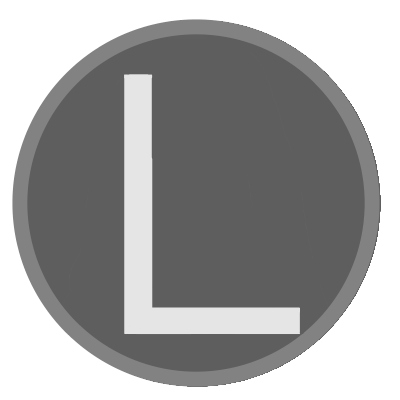
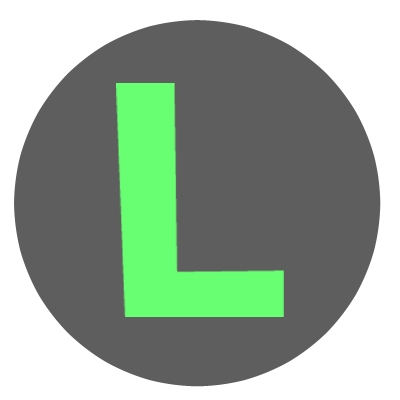
スティック画像差し替え

Changed region(s): [[0.03, 0.03, 0.96, 0.99]]

diff --git a/Project/Application/UI/UISystem.h b/Project/Application/UI/UISystem.h
@@ -4,7 +4,7 @@
 #include "UI.h"
 
 enum UITextureHandleIndex {
-	kUITextureHandleIndexLeftStickBG, // 左スティック背景
+	kUITextureHandleIndexStickBG, // 左スティック背景
 	kUITextureHandleIndexLeftStick, // 左スティック
 	kUITextureHandleIndexLeftStickStr, // 左スティック文字
 	kUITextureHandleIndexButtonA, // Aボタン
@@ -63,7 +63,7 @@ private:
 
 	// テクスチャのパス
 	const std::array<std::string, UITextureHandleIndex::kUITextureHandleIndexOfCount> textureNames_ = {
-		"Resources/UI/joystick_L_BG.png",
+		"Resources/UI/joystick_BG.png",
 		"Resources/UI/joystick_L.png",
 		"Resources/UI/moveUI.png",
 		"Resources/UI/buttonA.png",

diff --git a/Project/Application/UI/UISystem.cpp b/Project/Application/UI/UISystem.cpp
@@ -23,7 +23,7 @@ void UISystem::Initialize(DirectXCommon* dxCommon, Player* player)
 
 	// 左スティック背景
 	UIs_[kUIIndexLeftStickBG] = std::make_unique<LeftStickBG>();
-	UIs_[kUIIndexLeftStickBG]->Initialize(textureHandles_[kUITextureHandleIndexLeftStickBG], "LeftStick");
+	UIs_[kUIIndexLeftStickBG]->Initialize(textureHandles_[kUITextureHandleIndexStickBG], "LeftStick");
 	static_cast<LeftStickBG*>(UIs_[kUIIndexLeftStickBG].get())->SetParent(static_cast<LeftStickUI*>(UIs_[kUIIndexLeftStick].get()));
 
 	// 左スティック文字
